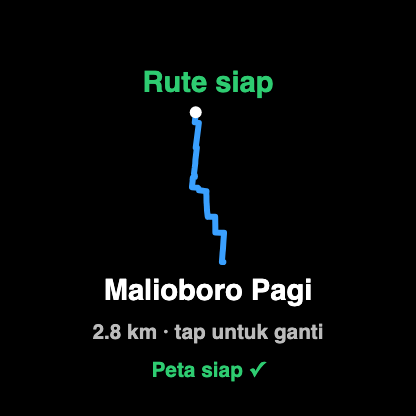
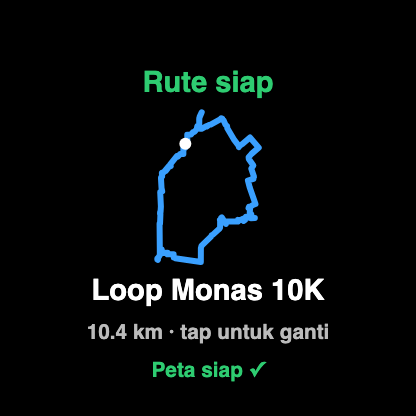
Store ready screen: Loop Monas 10K (real OSRM foot loop) with map ready status

Changed region(s): [[0.2188, 0.25, 0.7812, 0.75], [0.2188, 0.7812, 0.8125, 0.8438]]

diff --git a/docs/store/render.html b/docs/store/render.html
@@ -7,7 +7,9 @@
 // a route through Malioboro, Yogyakarta, downloaded from the Valhalla /expansion service
 // (roads = "auto", alleys = "pedestrian"), metres east/north of the route start.
 // Map data © OpenStreetMap contributors (ODbL).
+// The ready screen shows a real 10.5 km foot loop around Monas (OSRM), the other screens Malioboro.
 // Usage: render.html?s=ready|approach|turn|off
+const LOOP = [[0.0,0.0],[1.9,49.9],[13.0,49.8],[13.2,60.0],[37.1,59.5],[35.9,168.2],[105.6,173.1],[148.2,222.7],[171.0,222.2],[214.6,276.4],[225.1,330.2],[238.1,319.1],[260.8,321.1],[262.8,484.1],[307.7,590.6],[270.5,511.5],[260.5,464.4],[261.9,302.5],[273.2,282.3],[303.9,280.3],[396.4,330.9],[403.2,324.7],[446.5,355.0],[475.9,359.6],[663.1,463.7],[675.2,477.9],[696.4,468.0],[696.1,456.5],[720.6,439.0],[754.5,359.2],[785.6,329.5],[789.0,292.4],[922.4,66.8],[1000.9,-34.0],[1014.7,-42.0],[1007.8,-62.4],[1014.7,-42.0],[1073.0,-5.2],[1215.6,118.4],[1380.2,-73.3],[1244.2,-190.7],[1189.8,-252.4],[1193.6,-286.9],[1279.2,-410.4],[1239.0,-467.8],[1291.7,-620.4],[1281.4,-626.2],[1286.4,-634.1],[1275.6,-648.4],[1279.1,-659.5],[1176.7,-692.0],[1209.5,-819.3],[1319.1,-1134.1],[1271.2,-1152.9],[1227.5,-1181.7],[1197.3,-1184.6],[1188.5,-1209.4],[1217.9,-1208.2],[1209.5,-1319.6],[1238.9,-1321.3],[1250.0,-1398.9],[1307.3,-1395.6],[1228.8,-1400.1],[1137.3,-1374.7],[1122.2,-1408.3],[1121.5,-1435.7],[1095.3,-1452.5],[1072.0,-1415.4],[1034.0,-1437.2],[988.2,-1431.7],[984.7,-1464.4],[765.3,-1460.4],[762.6,-1508.1],[685.4,-1384.5],[672.7,-1394.1],[665.7,-1420.3],[648.2,-1430.1],[654.3,-1448.1],[653.8,-1576.3],[644.9,-1594.6],[513.6,-1714.5],[494.5,-1722.1],[482.0,-1746.1],[302.9,-1922.9],[292.1,-1966.0],[291.3,-2225.8],[-191.9,-2154.4],[-197.0,-2146.1],[-218.1,-2142.4],[-220.7,-2076.9],[-333.2,-2078.5],[-334.4,-2050.7],[-443.6,-2053.2],[-445.3,-1988.3],[-480.0,-1988.5],[-479.5,-2095.9],[-512.5,-2146.7],[-526.0,-2154.6],[-527.9,-2178.9],[-515.2,-2183.0],[-527.9,-2178.9],[-526.0,-2154.6],[-512.5,-2146.7],[-479.0,-2092.5],[-484.5,-1519.5],[-484.1,-1500.1],[-475.7,-1500.7],[-468.3,-1314.2],[-476.1,-1313.8],[-474.5,-1287.3],[-466.3,-1287.5],[-459.8,-1179.8],[-472.6,-904.7],[-434.6,-896.6],[-447.8,-834.2],[-458.2,-648.8],[-455.7,-630.3],[-435.7,-616.6],[-442.1,-550.6],[-433.1,-542.1],[-420.5,-554.2],[-311.0,-419.4],[-280.6,-425.9],[-306.0,-431.8],[-367.5,-509.4],[-306.0,-431.8],[-274.9,-420.8],[-288.2,-391.9],[-159.9,-233.5],[-143.5,-245.0],[-97.2,-193.4],[-37.0,-193.0],[-36.9,-80.6],[-14.5,-81.3],[-14.3,-72.1],[-1.1,-72.3],[-0.6,-30.4],[17.9,-30.6],[18.5,6.7],[0.2,6.9],[0.0,0.0]];   // real OSRM foot loop: Monas → Medan Merdeka → Cikini → Menteng → Bundaran HI → Thamrin → Monas
 const D = {"route":[[0.0,0.0],[0.0,0.0],[-1.7,-25.8],[-1.1,-27.4],[-3.2,-55.8],[-8.5,-104.1],[-13.3,-141.9],[-14.8,-153.2],[47.9,-160.5],[47.4,-164.0],[15.6,-414.6],[15.0,-419.2],[-0.3,-539.2],[9.5,-539.1],[17.8,-539.2],[5.2,-641.5],[-4.6,-720.6],[-6.9,-768.1],[-6.3,-771.7],[-15.4,-846.2],[-16.0,-850.2],[-24.3,-917.9],[-26.4,-934.3],[-11.5,-966.7],[-13.3,-968.0],[-13.5,-969.9],[-13.6,-973.4],[-13.7,-979.3],[-13.8,-985.6],[-15.7,-985.5],[-27.1,-985.6],[-28.7,-985.6],[-30.0,-985.7],[-31.4,-985.9],[-32.8,-986.2],[-34.2,-986.8],[-35.5,-987.3],[-36.7,-987.8],[-37.9,-988.4],[-39.2,-989.2],[-40.4,-989.9],[-41.5,-990.8],[-42.2,-991.7],[-43.0,-992.6],[-43.6,-993.5],[-43.8,-994.5],[-48.0,-1028.0],[-47.6,-1028.7],[-46.9,-1029.0],[-45.0,-1029.1],[-45.2,-1031.6],[-45.7,-1034.9],[-47.1,-1046.6],[-52.3,-1089.9],[-53.9,-1104.1],[-55.8,-1120.8],[-57.7,-1139.3],[-16.1,-1143.2],[23.9,-1146.7],[26.4,-1147.2],[28.7,-1147.8],[30.6,-1148.8],[32.2,-1149.8],[34.1,-1151.3],[35.7,-1152.6],[38.2,-1155.1],[40.3,-1157.8],[42.4,-1160.6],[44.0,-1163.2],[45.4,-1165.8],[46.9,-1168.4],[48.0,-1171.1],[49.0,-1173.5],[49.7,-1175.8],[50.6,-1178.8],[51.2,-1181.2],[51.4,-1183.3],[51.5,-1185.3],[51.4,-1187.2],[113.6,-1194.7],[128.9,-1196.5],[164.1,-1200.7],[163.7,-1207.6],[161.6,-1229.4],[161.4,-1244.0],[161.4,-1246.9],[163.5,-1272.8],[163.6,-1300.8],[164.0,-1346.0],[164.8,-1374.0],[167.4,-1398.9],[167.6,-1413.7],[169.4,-1430.5],[169.6,-1437.2],[170.7,-1466.2],[171.5,-1484.7],[172.9,-1504.0],[175.5,-1526.3],[181.3,-1575.5],[183.4,-1591.9],[235.1,-1589.2],[296.1,-1588.8],[297.0,-1645.1],[297.9,-1695.9],[298.7,-1755.2],[298.9,-1764.6],[298.7,-1769.9],[298.8,-1793.2],[298.9,-1831.1],[384.1,-1834.6],[418.4,-1835.1],[431.7,-1835.3],[431.1,-1842.4],[429.8,-1859.6],[427.4,-1890.8],[422.7,-1950.6],[418.3,-2023.8],[414.1,-2091.0],[409.2,-2134.9],[408.0,-2152.1],[406.1,-2178.0],[398.6,-2278.6],[421.0,-2280.1]],"roads":[{"c":1,"p":[[0.0,0.0],[-1.7,-25.8]]},{"c":1,"p":[[75.1,-9.2],[59.8,-132.1]]},{"c":1,"p":[[59.8,-132.1],[56.0,-161.4]]},{"c":1,"p":[[56.0,-161.4],[52.8,-187.4]]},{"c":1,"p":[[56.0,-161.4],[47.9,-160.5]]},{"c":1,"p":[[47.9,-160.5],[-14.8,-153.2]]},{"c":1,"p":[[-14.8,-153.2],[-22.8,-152.2]]},{"c":1,"p":[[52.8,-187.4],[30.7,-364.2]]},{"c":1,"p":[[-22.8,-152.2],[-132.2,-139.5]]},{"c":1,"p":[[-132.2,-139.5],[-174.5,-134.6]]},{"c":1,"p":[[-22.8,-152.2],[-18.9,-112.8],[-45.4,-110.1]]},{"c":1,"p":[[-132.2,-139.5],[-132.4,-119.6]]},{"c":1,"p":[[59.8,-132.1],[62.8,-132.2]]},{"c":1,"p":[[62.8,-132.2],[68.2,-132.5]]},{"c":1,"p":[[68.2,-132.5],[71.1,-132.8]]},{"c":1,"p":[[71.1,-132.8],[229.6,-140.9]]},{"c":1,"p":[[14.9,-419.2],[-66.5,-409.2]]},{"c":1,"p":[[-66.5,-409.2],[-110.2,-403.9]]},{"c":1,"p":[[-110.2,-403.9],[-132.1,-401.1]]},{"c":1,"p":[[-132.1,-401.1],[-151.0,-398.9]]},{"c":1,"p":[[-151.0,-398.9],[-186.1,-394.6]]},{"c":1,"p":[[-66.5,-409.2],[-66.1,-405.5]]},{"c":1,"p":[[-132.1,-401.1],[-129.0,-365.0]]},{"c":1,"p":[[-129.0,-365.0],[-113.5,-227.4]]},{"c":1,"p":[[-66.1,-405.5],[-61.0,-347.6]]},{"c":1,"p":[[-15.4,-846.2],[-30.0,-845.0]]},{"c":1,"p":[[-15.4,-846.2],[29.0,-849.8]]},{"c":1,"p":[[-30.0,-845.0],[-30.4,-849.4]]},{"c":1,"p":[[-30.4,-849.4],[-37.6,-906.8]]},{"c":1,"p":[[-37.6,-906.8],[-39.3,-920.0]]},{"c":1,"p":[[-39.3,-920.0],[-42.0,-942.1]]},{"c":1,"p":[[-42.0,-942.1],[-46.0,-974.4]]},{"c":1,"p":[[-46.0,-974.4],[-16.2,-973.3]]},{"c":1,"p":[[-16.2,-973.3],[-13.6,-973.4]]},{"c":1,"p":[[-46.0,-974.4],[-49.6,-1002.4]]},{"c":1,"p":[[-49.6,-1002.4],[-50.6,-1010.2]]},{"c":1,"p":[[-46.0,-974.4],[-78.9,-973.3]]},{"c":1,"p":[[-13.6,-973.4],[57.1,-976.0]]},{"c":1,"p":[[-50.6,-1010.2],[-53.3,-1030.7]]},{"c":1,"p":[[-53.3,-1030.7],[-55.1,-1045.7]]},{"c":1,"p":[[-55.1,-1045.7],[-56.2,-1053.9]]},{"c":1,"p":[[-56.2,-1053.9],[-60.7,-1089.2]]},{"c":1,"p":[[-78.9,-973.3],[-185.0,-969.5]]},{"c":1,"p":[[57.1,-976.0],[56.9,-978.6]]},{"c":1,"p":[[-185.0,-969.5],[-202.7,-968.9]]},{"c":1,"p":[[-60.7,-1089.2],[-67.1,-1138.6]]},{"c":1,"p":[[57.1,-976.0],[188.7,-980.5]]},{"c":1,"p":[[-202.7,-968.9],[-293.7,-965.6]]},{"c":1,"p":[[-67.1,-1138.6],[-57.7,-1139.3]]},{"c":1,"p":[[-67.1,-1138.6],[-67.9,-1145.1]]},{"c":1,"p":[[-57.7,-1139.3],[-16.1,-1143.2]]},{"c":1,"p":[[-67.9,-1145.1],[-119.9,-1140.3]]},{"c":1,"p":[[-185.0,-969.5],[-185.5,-975.7]]},{"c":1,"p":[[-185.5,-975.7],[-185.8,-978.8]]},{"c":1,"p":[[-53.3,-1030.7],[-45.3,-1031.6]]},{"c":1,"p":[[-50.6,-1010.2],[-55.8,-1009.6]]},{"c":1,"p":[[-55.8,-1009.6],[-60.1,-1009.0]]},{"c":1,"p":[[-60.1,-1009.0],[-62.6,-1008.7]]},{"c":1,"p":[[-45.3,-1031.6],[-9.5,-1036.0]]},{"c":1,"p":[[-30.4,-849.4],[-36.2,-848.6]]},{"c":1,"p":[[-39.3,-920.0],[-53.7,-918.5]]},{"c":1,"p":[[-53.7,-918.5],[-55.9,-918.3]]},{"c":1,"p":[[-185.8,-978.8],[-190.6,-1036.6]]},{"c":1,"p":[[-55.9,-918.3],[-83.6,-915.3]]},{"c":1,"p":[[-83.6,-915.3],[-81.9,-903.4]]},{"c":1,"p":[[-81.9,-903.4],[-164.2,-907.4]]},{"c":1,"p":[[-164.2,-907.4],[-159.7,-888.7]]},{"c":1,"p":[[-16.1,-1143.2],[32.2,-1149.8],[51.4,-1187.2]]},{"c":1,"p":[[51.4,-1187.2],[45.6,-1186.5]]},{"c":1,"p":[[113.6,-1194.7],[51.4,-1187.2]]},{"c":1,"p":[[128.9,-1196.5],[113.6,-1194.7]]},{"c":1,"p":[[51.4,-1187.2],[40.6,-1273.4]]},{"c":1,"p":[[164.0,-1200.7],[128.9,-1196.5]]},{"c":1,"p":[[164.0,-1200.7],[198.5,-1204.9]]},{"c":1,"p":[[40.6,-1273.4],[34.7,-1272.6]]},{"c":1,"p":[[40.6,-1273.4],[25.4,-1394.6]]},{"c":1,"p":[[25.4,-1394.6],[18.6,-1397.9]]},{"c":1,"p":[[198.5,-1204.9],[246.1,-1210.5]]},{"c":1,"p":[[164.0,-1200.7],[169.7,-1140.3]]},{"c":1,"p":[[161.6,-1229.4],[164.0,-1200.7]]},{"c":1,"p":[[161.4,-1244.0],[161.6,-1229.4]]},{"c":1,"p":[[161.4,-1246.9],[161.4,-1244.0]]},{"c":1,"p":[[18.6,-1397.9],[19.1,-1393.9]]},{"c":1,"p":[[246.1,-1210.5],[319.7,-1219.4]]},{"c":1,"p":[[319.7,-1219.4],[343.3,-1222.1]]},{"c":1,"p":[[161.4,-1246.9],[168.2,-1245.9]]},{"c":1,"p":[[343.3,-1222.1],[402.8,-1229.3]]},{"c":1,"p":[[19.1,-1393.9],[34.7,-1272.6]]},{"c":1,"p":[[164.0,-1346.0],[161.4,-1246.9]]},{"c":1,"p":[[168.2,-1245.9],[261.4,-1251.3]]},{"c":1,"p":[[289.7,-1254.7],[261.4,-1251.3]]},{"c":1,"p":[[167.4,-1398.9],[164.0,-1346.0]]},{"c":1,"p":[[261.4,-1251.3],[260.8,-1262.4]]},{"c":1,"p":[[164.0,-1346.0],[85.9,-1345.6]]},{"c":1,"p":[[198.5,-1204.9],[201.1,-1148.3]]},{"c":1,"p":[[289.7,-1254.7],[419.3,-1277.0]]},{"c":1,"p":[[293.0,-1346.6],[289.7,-1254.7]]},{"c":1,"p":[[319.7,-1219.4],[320.9,-1198.4]]},{"c":1,"p":[[320.9,-1198.4],[322.2,-1178.9]]},{"c":1,"p":[[18.6,-1397.9],[-27.9,-1393.8]]},{"c":1,"p":[[-27.9,-1393.8],[-33.2,-1453.2]]},{"c":1,"p":[[-27.9,-1393.8],[-192.0,-1378.9]]},{"c":1,"p":[[128.9,-1196.5],[116.2,-1183.1],[113.6,-1194.7]]},{"c":1,"p":[[246.1,-1210.5],[246.2,-1206.4]]},{"c":1,"p":[[246.2,-1206.4],[246.5,-1197.4]]},{"c":1,"p":[[246.5,-1197.4],[247.2,-1183.0]]},{"c":1,"p":[[247.2,-1183.0],[248.5,-1149.3]]},{"c":1,"p":[[247.2,-1183.0],[279.9,-1183.0],[282.3,-1155.8]]},{"c":1,"p":[[169.6,-1437.2],[169.4,-1430.5]]},{"c":1,"p":[[169.4,-1430.5],[167.4,-1398.9]]},{"c":1,"p":[[169.6,-1437.2],[175.5,-1526.3]]},{"c":1,"p":[[294.5,-1433.5],[169.6,-1437.2]]},{"c":1,"p":[[175.5,-1526.3],[181.3,-1575.5]]},{"c":1,"p":[[181.3,-1575.5],[183.3,-1591.9]]},{"c":1,"p":[[294.5,-1433.5],[293.5,-1373.8]]},{"c":1,"p":[[175.5,-1526.3],[98.2,-1530.3]]},{"c":1,"p":[[296.2,-1522.9],[175.5,-1526.3]]},{"c":1,"p":[[293.5,-1373.8],[293.0,-1346.6]]},{"c":1,"p":[[294.5,-1433.5],[355.0,-1432.4]]},{"c":1,"p":[[183.3,-1591.9],[187.4,-1645.2]]},{"c":1,"p":[[355.0,-1432.4],[379.6,-1432.3]]},{"c":1,"p":[[98.2,-1530.3],[66.0,-1532.0]]},{"c":1,"p":[[66.0,-1532.0],[58.3,-1534.1]]},{"c":1,"p":[[296.2,-1522.9],[294.5,-1433.5]]},{"c":1,"p":[[379.6,-1432.3],[413.8,-1431.6]]},{"c":1,"p":[[187.4,-1645.2],[189.7,-1693.7]]},{"c":1,"p":[[98.2,-1530.3],[97.4,-1565.6]]},{"c":1,"p":[[58.3,-1534.1],[13.7,-1554.0]]},{"c":1,"p":[[296.1,-1588.8],[296.2,-1522.9]]},{"c":1,"p":[[189.7,-1693.7],[176.8,-1746.8]]},{"c":1,"p":[[176.8,-1746.8],[173.4,-1765.1]]},{"c":1,"p":[[13.7,-1554.0],[10.3,-1583.0]]},{"c":1,"p":[[251.9,-1694.9],[189.7,-1693.7]]},{"c":1,"p":[[296.2,-1522.9],[408.4,-1518.2]]},{"c":1,"p":[[297.0,-1645.1],[296.1,-1588.8]]},{"c":1,"p":[[10.3,-1583.0],[7.7,-1621.1]]},{"c":1,"p":[[297.9,-1695.9],[251.9,-1694.9]]},{"c":1,"p":[[297.9,-1695.9],[297.0,-1645.1]]},{"c":1,"p":[[10.3,-1583.0],[-6.1,-1564.1]]},{"c":1,"p":[[413.8,-1431.6],[408.4,-1518.2]]},{"c":1,"p":[[173.4,-1765.1],[162.3,-1823.1]]},{"c":1,"p":[[413.8,-1431.6],[422.9,-1282.4]]},{"c":1,"p":[[7.7,-1621.1],[29.6,-1624.2]]},{"c":1,"p":[[7.7,-1621.1],[-1.4,-1702.5]]},{"c":1,"p":[[-6.1,-1564.1],[13.7,-1554.0]]},{"c":1,"p":[[-6.1,-1564.1],[-69.4,-1561.2]]},{"c":1,"p":[[398.9,-1645.9],[408.4,-1518.2]]},{"c":1,"p":[[293.0,-1346.6],[223.3,-1346.4]]},{"c":1,"p":[[223.3,-1346.4],[205.5,-1346.3]]},{"c":1,"p":[[223.3,-1346.4],[223.0,-1328.1]]},{"c":1,"p":[[298.9,-1764.6],[173.4,-1765.1]]},{"c":1,"p":[[298.7,-1755.2],[298.9,-1764.6]]},{"c":1,"p":[[298.7,-1755.2],[314.9,-1755.0]]},{"c":1,"p":[[314.9,-1755.0],[320.9,-1755.0]]},{"c":1,"p":[[298.9,-1764.6],[298.7,-1769.9]]},{"c":1,"p":[[320.9,-1755.0],[332.5,-1754.9]]},{"c":1,"p":[[298.7,-1755.2],[297.9,-1695.9]]},{"c":1,"p":[[298.7,-1769.9],[298.9,-1831.1]]},{"c":1,"p":[[298.7,-1769.9],[389.7,-1773.5]]},{"c":1,"p":[[384.1,-1834.6],[298.9,-1831.1]]},{"c":1,"p":[[384.1,-1834.6],[389.7,-1773.5]]},{"c":1,"p":[[298.9,-1831.1],[161.8,-1829.4]]},{"c":1,"p":[[431.7,-1835.3],[384.1,-1834.6]]},{"c":1,"p":[[389.7,-1773.5],[398.9,-1645.9]]},{"c":1,"p":[[384.1,-1834.6],[379.2,-1910.4]]},{"c":1,"p":[[161.8,-1829.4],[153.2,-1890.6]]},{"c":1,"p":[[162.3,-1823.1],[161.8,-1829.4]]},{"c":1,"p":[[431.7,-1835.3],[440.7,-1721.5]]},{"c":1,"p":[[379.2,-1910.4],[373.3,-1991.9]]},{"c":1,"p":[[429.8,-1859.5],[431.7,-1835.3]]},{"c":1,"p":[[427.4,-1890.8],[429.8,-1859.5]]},{"c":1,"p":[[429.8,-1859.5],[435.2,-1859.7]]},{"c":1,"p":[[153.2,-1890.6],[145.4,-1970.6]]},{"c":1,"p":[[422.7,-1950.6],[427.4,-1890.8]]},{"c":1,"p":[[440.7,-1721.5],[446.8,-1600.6]]},{"c":1,"p":[[373.3,-1991.9],[368.0,-2071.9]]},{"c":1,"p":[[373.3,-1991.9],[358.9,-1990.8]]},{"c":1,"p":[[440.7,-1721.5],[493.0,-1718.5]]},{"c":1,"p":[[358.9,-1990.8],[342.0,-1989.3]]},{"c":1,"p":[[153.2,-1890.6],[30.6,-1879.1]]},{"c":1,"p":[[418.3,-2023.8],[422.7,-1950.6]]},{"c":1,"p":[[153.2,-1890.6],[379.2,-1910.4]]},{"c":1,"p":[[422.7,-1950.6],[433.8,-1951.0]]},{"c":1,"p":[[433.8,-1951.0],[434.8,-1951.0]]},{"c":1,"p":[[435.2,-1859.7],[446.1,-1860.1]]},{"c":1,"p":[[446.1,-1860.1],[459.0,-1860.4]]},{"c":1,"p":[[459.0,-1860.4],[508.8,-1861.9]]},{"c":1,"p":[[508.8,-1861.9],[537.5,-1862.8]]},{"c":1,"p":[[446.1,-1860.1],[440.1,-1890.7],[427.4,-1890.8]]},{"c":1,"p":[[434.8,-1951.0],[451.5,-1940.9]]},{"c":1,"p":[[409.2,-2134.9],[414.1,-2091.0]]},{"c":1,"p":[[414.1,-2091.0],[418.3,-2023.8]]},{"c":1,"p":[[409.2,-2134.9],[398.6,-2278.6]]},{"c":1,"p":[[398.6,-2278.6],[394.1,-2340.7]]},{"c":1,"p":[[418.3,-2023.8],[457.9,-2025.4]]},{"c":1,"p":[[394.1,-2340.7],[390.5,-2368.0]]},{"c":1,"p":[[390.5,-2368.0],[393.5,-2440.9]]},{"c":1,"p":[[394.1,-2340.7],[462.8,-2347.4]]},{"c":1,"p":[[462.8,-2347.4],[484.0,-2312.7]]},{"c":1,"p":[[409.2,-2134.9],[443.8,-2138.2]]},{"c":1,"p":[[443.8,-2138.2],[475.6,-2139.8]]},{"c":1,"p":[[475.6,-2139.8],[513.4,-2144.5]]},{"c":1,"p":[[513.4,-2144.5],[516.8,-2145.0]]},{"c":1,"p":[[516.8,-2145.0],[537.0,-2148.2]]},{"c":1,"p":[[537.0,-2148.2],[566.6,-2152.8]]},{"c":1,"p":[[537.0,-2148.2],[542.1,-2117.7]]},{"c":1,"p":[[566.6,-2152.8],[597.1,-2160.9]]},{"c":1,"p":[[597.1,-2160.9],[668.5,-2170.6]]},{"c":1,"p":[[451.5,-1940.9],[517.4,-1939.6],[522.7,-1966.6],[573.4,-1974.6]]},{"c":1,"p":[[573.4,-1974.6],[617.3,-1981.2]]},{"c":1,"p":[[393.5,-2440.9],[393.9,-2451.2]]},{"c":1,"p":[[393.5,-2440.9],[447.2,-2445.4]]},{"c":1,"p":[[447.2,-2445.4],[458.7,-2452.0]]},{"c":1,"p":[[458.7,-2452.0],[501.7,-2459.6]]},{"c":1,"p":[[501.7,-2459.6],[549.8,-2468.1]]},{"c":1,"p":[[393.9,-2451.2],[385.8,-2452.4]]},{"c":1,"p":[[385.8,-2452.4],[373.1,-2457.0]]},{"c":1,"p":[[373.1,-2457.0],[356.4,-2463.2]]},{"c":1,"p":[[356.4,-2463.2],[356.5,-2480.4]]},{"c":1,"p":[[373.1,-2457.0],[385.2,-2446.4]]},{"c":1,"p":[[356.4,-2463.2],[342.0,-2460.7]]},{"c":1,"p":[[356.4,-2463.2],[355.4,-2453.2]]},{"c":1,"p":[[385.2,-2446.4],[385.0,-2442.3]]},{"c":1,"p":[[356.5,-2480.4],[373.1,-2457.0]]},{"c":1,"p":[[342.0,-2460.7],[261.3,-2450.9]]},{"c":1,"p":[[356.5,-2480.4],[342.0,-2460.7]]},{"c":1,"p":[[385.0,-2442.3],[391.0,-2441.3]]},{"c":1,"p":[[385.2,-2446.4],[391.0,-2441.3]]},{"c":1,"p":[[391.0,-2441.3],[393.5,-2440.9]]},{"c":1,"p":[[385.0,-2442.3],[390.5,-2368.0]]},{"c":1,"p":[[501.7,-2459.6],[503.4,-2449.2]]},{"c":1,"p":[[553.6,-2460.8],[568.2,-2371.6]]},{"c":1,"p":[[484.0,-2312.7],[486.4,-2290.9]]},{"c":1,"p":[[486.4,-2290.9],[516.9,-2291.9]]},{"c":1,"p":[[484.0,-2312.7],[547.9,-2319.5],[553.4,-2281.1]]},{"c":1,"p":[[486.4,-2290.9],[492.3,-2233.2],[558.6,-2241.8]]},{"c":1,"p":[[553.4,-2281.1],[558.6,-2241.8]]},{"c":1,"p":[[553.4,-2281.1],[587.0,-2284.8]]},{"c":1,"p":[[558.6,-2241.8],[562.5,-2197.2]]},{"c":1,"p":[[587.0,-2284.8],[568.2,-2371.6]]},{"c":1,"p":[[503.4,-2449.2],[509.2,-2411.4]]},{"c":0,"p":[[-1.7,-25.8],[-3.2,-55.8]]},{"c":0,"p":[[-3.2,-55.8],[-38.1,-55.3]]},{"c":0,"p":[[-1.7,-25.8],[-65.6,-16.8],[-76.9,3.8]]},{"c":0,"p":[[-79.5,12.5],[-83.0,30.1]]},{"c":0,"p":[[-83.0,30.1],[-86.7,42.0]]},{"c":0,"p":[[-13.3,-141.9],[-3.2,-55.8]]},{"c":0,"p":[[-79.5,12.5],[-48.4,30.1]]},{"c":0,"p":[[-86.7,42.0],[-90.0,97.6]]},{"c":0,"p":[[-90.0,97.6],[-70.8,96.9]]},{"c":0,"p":[[-90.0,97.6],[-127.3,100.1]]},{"c":0,"p":[[-70.8,96.9],[-30.6,94.4]]},{"c":0,"p":[[-127.3,100.1],[-149.2,101.1]]},{"c":0,"p":[[-70.8,96.9],[-74.3,157.9]]},{"c":0,"p":[[-149.2,101.1],[-172.7,102.1]]},{"c":0,"p":[[-30.6,94.4],[-6.4,92.9]]},{"c":0,"p":[[-30.6,94.4],[-30.2,117.3]]},{"c":0,"p":[[64.5,-188.5],[105.0,-191.8]]},{"c":0,"p":[[61.2,-188.1],[68.2,-132.5]]},{"c":0,"p":[[-6.4,92.9],[46.7,89.8]]},{"c":0,"p":[[-74.3,157.9],[-72.2,221.6]]},{"c":0,"p":[[-74.3,157.9],[-5.0,159.1]]},{"c":0,"p":[[105.0,-191.8],[105.0,-217.0]]},{"c":0,"p":[[46.7,89.8],[79.4,88.0]]},{"c":0,"p":[[-174.5,-134.6],[-181.3,-216.7]]},{"c":0,"p":[[48.3,-156.6],[71.5,25.5]]},{"c":0,"p":[[-186.2,-133.3],[-317.1,-118.1]]},{"c":0,"p":[[39.9,-360.1],[61.2,-188.1]]},{"c":0,"p":[[105.0,-191.8],[235.0,-196.1]]},{"c":0,"p":[[15.6,-414.6],[47.4,-164.0]]},{"c":0,"p":[[-186.2,-133.3],[-196.0,-67.3]]},{"c":0,"p":[[68.2,-132.5],[82.5,-15.9]]},{"c":0,"p":[[-79.5,12.5],[-106.5,8.0]]},{"c":0,"p":[[-106.5,8.0],[-138.1,1.0]]},{"c":0,"p":[[-138.1,1.0],[-150.4,-2.2]]},{"c":0,"p":[[-150.4,-2.2],[-173.4,-5.3]]},{"c":0,"p":[[-106.5,8.0],[-96.6,-75.4],[-126.5,-90.0]]},{"c":0,"p":[[-138.1,1.0],[-126.5,-90.0]]},{"c":0,"p":[[-126.5,-90.0],[-132.4,-119.6]]},{"c":0,"p":[[-127.3,100.1],[-114.2,199.0]]},{"c":0,"p":[[-6.4,92.9],[-5.0,159.1]]},{"c":0,"p":[[-149.2,101.1],[-151.1,40.2]]},{"c":0,"p":[[-172.7,102.1],[-174.5,40.1]]},{"c":0,"p":[[-23.5,-155.4],[-26.1,-174.3]]},{"c":0,"p":[[-113.5,-227.4],[-46.7,-236.8],[-26.1,-174.3]]},{"c":0,"p":[[23.7,-420.3],[30.7,-364.2]]},{"c":0,"p":[[33.0,-416.6],[36.4,-379.5]]},{"c":0,"p":[[33.0,-416.6],[38.8,-369.0]]},{"c":0,"p":[[39.4,-365.1],[68.3,-368.0]]},{"c":0,"p":[[-0.3,-539.2],[14.9,-419.2]]},{"c":0,"p":[[9.5,-539.1],[23.7,-420.3]]},{"c":0,"p":[[17.8,-539.2],[32.4,-420.9]]},{"c":0,"p":[[-0.3,-539.2],[-31.0,-532.6]]},{"c":0,"p":[[32.4,-420.9],[185.5,-433.8]]},{"c":0,"p":[[-31.0,-532.6],[-84.4,-520.9]]},{"c":0,"p":[[185.5,-433.8],[189.7,-403.7]]},{"c":0,"p":[[-3.6,-640.2],[9.5,-539.1]]},{"c":0,"p":[[-110.2,-403.9],[-129.6,-509.5]]},{"c":0,"p":[[185.5,-433.8],[257.2,-439.7]]},{"c":0,"p":[[-84.4,-520.9],[-129.6,-509.5]]},{"c":0,"p":[[-19.7,-692.0],[-0.3,-539.2]]},{"c":0,"p":[[-129.0,-365.0],[-189.8,-356.2]]},{"c":0,"p":[[5.1,-641.5],[17.8,-539.2]]},{"c":0,"p":[[-84.4,-520.9],[-103.2,-576.1]]},{"c":0,"p":[[-31.8,-535.7],[-46.3,-594.0]]},{"c":0,"p":[[17.8,-539.2],[170.6,-544.5]]},{"c":0,"p":[[-151.0,-398.9],[-173.6,-501.5]]},{"c":0,"p":[[185.5,-433.8],[170.6,-544.5]]},{"c":0,"p":[[-132.8,-508.9],[-173.6,-501.5]]},{"c":0,"p":[[-14.0,-719.9],[-10.6,-693.1]]},{"c":0,"p":[[-103.2,-576.1],[-139.1,-564.9]]},{"c":0,"p":[[-19.7,-692.0],[-61.2,-686.7]]},{"c":0,"p":[[-10.6,-693.1],[-3.6,-640.2]]},{"c":0,"p":[[-132.8,-508.9],[-139.1,-564.9]]},{"c":0,"p":[[15.2,-642.9],[71.8,-651.3]]},{"c":0,"p":[[-103.2,-576.1],[-46.3,-594.0]]},{"c":0,"p":[[-173.6,-501.5],[-208.1,-492.2]]},{"c":0,"p":[[-31.4,-761.0],[-19.7,-692.0]]},{"c":0,"p":[[-4.6,-720.6],[5.1,-641.5]]},{"c":0,"p":[[-46.3,-594.0],[-66.5,-663.2]]},{"c":0,"p":[[170.6,-544.5],[224.8,-544.6]]},{"c":0,"p":[[-20.0,-765.6],[-14.0,-719.9]]},{"c":0,"p":[[-173.6,-501.5],[-189.5,-584.3]]},{"c":0,"p":[[-6.3,-771.7],[-4.6,-720.6]]},{"c":0,"p":[[65.8,-725.8],[71.8,-651.3]]},{"c":0,"p":[[-4.6,-720.6],[65.8,-725.8]]},{"c":0,"p":[[-189.8,-356.2],[-181.3,-216.7]]},{"c":0,"p":[[71.8,-651.3],[153.0,-664.2]]},{"c":0,"p":[[-113.5,-227.4],[-181.3,-216.7]]},{"c":0,"p":[[68.3,-368.0],[111.8,-372.3]]},{"c":0,"p":[[111.8,-372.3],[167.4,-377.9]]},{"c":0,"p":[[111.8,-372.3],[117.0,-310.6]]},{"c":0,"p":[[167.4,-377.9],[190.8,-395.4]]},{"c":0,"p":[[190.8,-395.4],[206.0,-396.2]]},{"c":0,"p":[[206.0,-396.2],[244.5,-398.1]]},{"c":0,"p":[[167.4,-377.9],[182.6,-365.4]]},{"c":0,"p":[[206.0,-396.2],[207.3,-382.1]]},{"c":0,"p":[[117.0,-310.6],[148.5,-313.5]]},{"c":0,"p":[[207.3,-382.1],[203.2,-368.5]]},{"c":0,"p":[[182.6,-365.4],[203.2,-368.5]]},{"c":0,"p":[[170.6,-544.5],[153.0,-664.2]]},{"c":0,"p":[[182.6,-365.4],[183.1,-341.3]]},{"c":0,"p":[[117.0,-310.6],[124.3,-222.2],[141.6,-199.9],[309.3,-204.6]]},{"c":0,"p":[[207.3,-382.1],[245.3,-385.3]]},{"c":0,"p":[[203.2,-368.5],[204.8,-342.8]]},{"c":0,"p":[[183.1,-341.3],[204.8,-342.8]]},{"c":0,"p":[[148.5,-313.5],[172.1,-316.1],[183.1,-341.3]]},{"c":0,"p":[[204.8,-342.8],[209.8,-318.0]]},{"c":0,"p":[[148.5,-313.5],[151.2,-241.2]]},{"c":0,"p":[[209.8,-318.0],[257.3,-320.1]]},{"c":0,"p":[[209.8,-318.0],[213.0,-268.1]]},{"c":0,"p":[[-26.8,-912.6],[-21.3,-856.5]]},{"c":0,"p":[[-24.3,-917.9],[-16.0,-850.2]]},{"c":0,"p":[[36.1,-850.3],[50.2,-851.0]]},{"c":0,"p":[[-30.0,-845.0],[-22.7,-786.4]]},{"c":0,"p":[[-26.4,-934.3],[-24.3,-917.9]]},{"c":0,"p":[[-15.4,-846.2],[-6.3,-771.7]]},{"c":0,"p":[[-27.5,-941.8],[-28.0,-922.7]]},{"c":0,"p":[[-24.4,-954.2],[-27.5,-941.8]]},{"c":0,"p":[[-22.7,-786.4],[-20.0,-765.6]]},{"c":0,"p":[[-22.7,-786.4],[-36.4,-779.1]]},{"c":0,"p":[[-13.5,-969.9],[-24.4,-954.2]]},{"c":0,"p":[[-20.0,-765.6],[-32.0,-764.8]]},{"c":0,"p":[[-11.5,-966.7],[-26.4,-934.3]]},{"c":0,"p":[[-7.8,-966.8],[-24.4,-954.2]]},{"c":0,"p":[[-54.0,-939.0],[-50.2,-926.8]]},{"c":0,"p":[[-36.4,-779.1],[-67.6,-762.6]]},{"c":0,"p":[[-32.0,-764.8],[-67.6,-762.6]]},{"c":0,"p":[[66.7,-851.8],[84.2,-852.7]]},{"c":0,"p":[[-78.6,-966.9],[-58.1,-948.7]]},{"c":0,"p":[[-84.0,-965.6],[-58.1,-948.7]]},{"c":0,"p":[[-32.9,-792.9],[-38.5,-836.7]]},{"c":0,"p":[[-38.7,-783.5],[-83.8,-763.4]]},{"c":0,"p":[[84.2,-852.7],[84.6,-839.6]]},{"c":0,"p":[[-38.9,-995.3],[-19.1,-989.7]]},{"c":0,"p":[[-46.0,-974.4],[-16.5,-979.2]]},{"c":0,"p":[[-36.3,-784.8],[-43.8,-842.6]]},{"c":0,"p":[[66.7,-851.8],[64.9,-887.3]]},{"c":0,"p":[[-78.2,-759.3],[-121.7,-742.5]]},{"c":0,"p":[[-44.1,-1025.7],[-39.9,-1000.5]]},{"c":0,"p":[[-82.8,-965.7],[-53.9,-919.9]]},{"c":0,"p":[[-53.4,-916.3],[-45.0,-852.7]]},{"c":0,"p":[[-13.7,-979.3],[56.5,-981.9]]},{"c":0,"p":[[-14.9,-989.9],[43.9,-994.5]]},{"c":0,"p":[[66.7,-851.8],[70.1,-798.9],[86.7,-791.4]]},{"c":0,"p":[[-59.3,-1003.4],[-73.5,-982.3]]},{"c":0,"p":[[84.2,-852.7],[157.6,-856.6]]},{"c":0,"p":[[-45.0,-1029.1],[-40.9,-995.5]]},{"c":0,"p":[[54.2,-1002.3],[70.4,-998.0]]},{"c":0,"p":[[157.6,-856.6],[158.9,-833.0]]},{"c":0,"p":[[157.6,-856.6],[190.0,-858.2]]},{"c":0,"p":[[57.2,-1006.9],[86.5,-1009.0]]},{"c":0,"p":[[-65.5,-1052.6],[-60.1,-1009.0]]},{"c":0,"p":[[84.2,-852.7],[81.7,-912.5],[63.7,-909.3],[64.5,-893.7]]},{"c":0,"p":[[-52.3,-1089.9],[-47.1,-1046.6]]},{"c":0,"p":[[-121.7,-742.5],[-193.7,-734.6]]},{"c":0,"p":[[86.5,-1009.0],[87.0,-995.0]]},{"c":0,"p":[[158.9,-833.0],[181.9,-833.9]]},{"c":0,"p":[[-53.9,-1104.1],[-52.3,-1089.9]]},{"c":0,"p":[[-69.9,-1088.2],[-65.5,-1052.6]]},{"c":0,"p":[[-81.0,-981.0],[-185.5,-975.7]]},{"c":0,"p":[[-71.8,-1102.6],[-69.9,-1088.2]]},{"c":0,"p":[[157.6,-856.6],[156.6,-906.8],[185.0,-907.9]]},{"c":0,"p":[[-185.5,-975.7],[-203.5,-974.9]]},{"c":0,"p":[[65.8,-725.8],[136.1,-731.0]]},{"c":0,"p":[[158.9,-833.0],[160.6,-797.1],[180.1,-797.8]]},{"c":0,"p":[[-7.8,-966.8],[181.9,-973.6]]},{"c":0,"p":[[-57.7,-1139.3],[-53.9,-1104.1]]},{"c":0,"p":[[-40.9,-995.5],[50.2,-999.4]]},{"c":0,"p":[[56.5,-981.9],[169.3,-986.2]]},{"c":0,"p":[[-76.3,-1137.7],[-71.8,-1102.6]]},{"c":0,"p":[[86.5,-1009.0],[156.7,-1014.2]]},{"c":0,"p":[[60.6,-1010.8],[152.9,-1018.3]]},{"c":0,"p":[[135.4,-736.1],[134.9,-750.9]]},{"c":0,"p":[[-193.7,-734.6],[-261.1,-735.6]]},{"c":0,"p":[[169.3,-986.2],[168.4,-999.8]]},{"c":0,"p":[[134.9,-750.9],[132.5,-770.0]]},{"c":0,"p":[[167.4,-1015.0],[168.4,-999.8]]},{"c":0,"p":[[134.9,-750.9],[106.7,-747.7]]},{"c":0,"p":[[-76.3,-1137.7],[-119.4,-1133.8]]},{"c":0,"p":[[136.1,-731.0],[188.6,-734.9]]},{"c":0,"p":[[-84.0,-965.6],[-298.6,-958.5]]},{"c":0,"p":[[106.7,-747.7],[93.6,-761.8]]},{"c":0,"p":[[176.9,-1015.8],[196.3,-1017.3]]},{"c":0,"p":[[169.3,-986.2],[232.1,-988.7]]},{"c":0,"p":[[132.5,-770.0],[93.6,-761.8]]},{"c":0,"p":[[134.9,-750.9],[186.1,-755.5]]},{"c":0,"p":[[-203.9,-978.4],[-212.6,-1079.1]]},{"c":0,"p":[[188.6,-734.9],[186.1,-755.5]]},{"c":0,"p":[[-193.7,-734.6],[-176.9,-620.6]]},{"c":0,"p":[[93.6,-761.8],[52.9,-753.1]]},{"c":0,"p":[[106.7,-747.7],[52.9,-753.1]]},{"c":0,"p":[[132.5,-770.0],[170.1,-771.1],[186.1,-755.5]]},{"c":0,"p":[[199.1,-916.0],[199.1,-938.6],[179.4,-936.6]]},{"c":0,"p":[[188.6,-734.9],[356.9,-747.3]]},{"c":0,"p":[[-117.2,-760.1],[-120.2,-748.2]]},{"c":0,"p":[[-103.1,-764.8],[-105.1,-791.5]]},{"c":0,"p":[[-117.2,-760.1],[-147.1,-756.9]]},{"c":0,"p":[[-147.1,-756.9],[-148.7,-774.4]]},{"c":0,"p":[[-105.1,-791.5],[-136.9,-789.5]]},{"c":0,"p":[[55.3,-993.1],[87.0,-995.0]]},{"c":0,"p":[[-148.7,-774.4],[-136.9,-789.5]]},{"c":0,"p":[[-136.9,-789.5],[-139.0,-813.4]]},{"c":0,"p":[[-139.0,-813.4],[-118.1,-818.2]]},{"c":0,"p":[[-117.5,-825.2],[-102.1,-823.0]]},{"c":0,"p":[[-147.1,-756.9],[-233.6,-762.3]]},{"c":0,"p":[[-139.0,-813.4],[-173.5,-811.1],[-179.1,-831.2]]},{"c":0,"p":[[-117.5,-825.2],[-118.2,-856.6]]},{"c":0,"p":[[87.0,-995.0],[168.4,-999.8]]},{"c":0,"p":[[-179.1,-831.2],[-180.4,-848.4]]},{"c":0,"p":[[-118.2,-856.6],[-134.2,-872.5]]},{"c":0,"p":[[-102.1,-823.0],[-61.8,-830.8],[-53.7,-846.3]]},{"c":0,"p":[[-118.2,-856.6],[-79.1,-871.5]]},{"c":0,"p":[[-141.2,-872.9],[-156.5,-868.3]]},{"c":0,"p":[[-141.2,-872.9],[-159.7,-888.7]]},{"c":0,"p":[[168.4,-999.8],[230.2,-1003.5],[232.1,-988.7]]},{"c":0,"p":[[136.2,-729.1],[137.6,-710.6]]},{"c":0,"p":[[167.1,-1019.4],[163.9,-1065.8]]},{"c":0,"p":[[137.6,-710.6],[142.9,-663.0]]},{"c":0,"p":[[55.9,-1019.3],[47.5,-1032.6]]},{"c":0,"p":[[55.9,-1019.3],[98.3,-1021.6]]},{"c":0,"p":[[175.5,-962.3],[141.8,-961.1]]},{"c":0,"p":[[45.6,-1052.8],[16.1,-1049.0],[18.9,-1029.2]]},{"c":0,"p":[[108.0,-1022.2],[156.0,-1024.8]]},{"c":0,"p":[[45.6,-1052.8],[126.0,-1059.3]]},{"c":0,"p":[[156.0,-1024.8],[159.3,-1056.1],[141.9,-1060.6]]},{"c":0,"p":[[191.9,-955.0],[142.5,-936.6],[141.8,-961.1]]},{"c":0,"p":[[-130.8,-1132.8],[-149.8,-1131.0]]},{"c":0,"p":[[-149.8,-1131.0],[-182.6,-1132.4]]},{"c":0,"p":[[-130.8,-1132.8],[-129.4,-1103.3]]},{"c":0,"p":[[-129.4,-1103.3],[-148.3,-1101.5]]},{"c":0,"p":[[-149.8,-1131.0],[-148.3,-1101.5]]},{"c":0,"p":[[34.7,-1272.6],[45.6,-1186.5]]},{"c":0,"p":[[-148.3,-1101.5],[-174.5,-1099.1]]},{"c":0,"p":[[-129.4,-1103.3],[-80.1,-1107.8]]},{"c":0,"p":[[-182.6,-1132.4],[-199.3,-1198.0]]},{"c":0,"p":[[45.6,-1186.5],[28.0,-1155.1],[-16.7,-1149.8]]},{"c":0,"p":[[-199.3,-1198.0],[-207.3,-1265.8]]},{"c":0,"p":[[-192.8,-1198.6],[-200.8,-1266.3]]},{"c":0,"p":[[-16.7,-1149.8],[-67.9,-1145.1]]},{"c":0,"p":[[-207.3,-1265.8],[-232.5,-1263.7]]},{"c":0,"p":[[164.0,-1346.0],[205.5,-1346.3]]},{"c":0,"p":[[-207.3,-1265.8],[-211.7,-1302.3]]},{"c":0,"p":[[-192.8,-1198.6],[-181.0,-1139.7],[-119.9,-1140.3]]},{"c":0,"p":[[343.3,-1222.1],[350.2,-1160.4]]},{"c":0,"p":[[-182.6,-1132.4],[-188.6,-1100.1]]},{"c":0,"p":[[167.4,-1398.9],[126.3,-1397.6]]},{"c":0,"p":[[169.4,-1430.5],[126.8,-1429.1],[126.3,-1397.6]]},{"c":0,"p":[[126.3,-1397.6],[76.5,-1394.2]]},{"c":0,"p":[[76.5,-1394.2],[85.9,-1345.6]]},{"c":0,"p":[[181.3,-1575.5],[138.2,-1576.3]]},{"c":0,"p":[[76.5,-1394.2],[63.4,-1455.4]]},{"c":0,"p":[[63.4,-1455.4],[64.7,-1479.2]]},{"c":0,"p":[[66.0,-1532.0],[64.7,-1479.2]]},{"c":0,"p":[[296.1,-1588.8],[183.3,-1591.9]]},{"c":0,"p":[[379.6,-1432.3],[383.8,-1377.4]]},{"c":0,"p":[[187.4,-1645.2],[107.2,-1645.4]]},{"c":0,"p":[[63.4,-1455.4],[-33.2,-1453.2]]},{"c":0,"p":[[58.3,-1534.1],[47.2,-1633.0]]},{"c":0,"p":[[293.5,-1373.8],[354.8,-1373.1],[355.0,-1432.4]]},{"c":0,"p":[[251.9,-1694.9],[253.0,-1666.9]]},{"c":0,"p":[[50.8,-1631.0],[97.7,-1631.6]]},{"c":0,"p":[[176.8,-1746.8],[105.5,-1745.8]]},{"c":0,"p":[[38.8,-1724.2],[47.2,-1633.0]]},{"c":0,"p":[[173.4,-1765.1],[90.7,-1765.0]]},{"c":0,"p":[[297.0,-1645.1],[398.9,-1645.9]]},{"c":0,"p":[[332.5,-1754.9],[332.5,-1725.8]]},{"c":0,"p":[[332.5,-1725.8],[332.6,-1709.1]]},{"c":0,"p":[[332.5,-1754.9],[355.0,-1753.3],[356.5,-1726.0]]},{"c":0,"p":[[356.5,-1726.0],[358.7,-1712.9],[365.4,-1725.9]]},{"c":0,"p":[[162.3,-1823.1],[73.9,-1821.6]]},{"c":0,"p":[[90.7,-1765.0],[78.1,-1747.1],[35.8,-1740.5],[38.8,-1724.2]]},{"c":0,"p":[[145.4,-1970.6],[342.0,-1989.3]]},{"c":0,"p":[[459.0,-1860.4],[488.0,-1844.7],[508.8,-1861.9]]},{"c":0,"p":[[414.1,-2091.0],[452.9,-2093.2]]},{"c":0,"p":[[452.9,-2093.2],[489.4,-2096.3]]},{"c":0,"p":[[452.9,-2093.2],[443.8,-2138.2]]},{"c":0,"p":[[452.9,-2093.2],[463.0,-2048.6]]},{"c":0,"p":[[463.0,-2048.6],[514.7,-2052.9]]},{"c":0,"p":[[514.7,-2052.9],[524.4,-2032.2]]},{"c":0,"p":[[514.7,-2052.9],[560.0,-2058.7]]},{"c":0,"p":[[524.4,-2032.2],[560.6,-2037.7]]},{"c":0,"p":[[560.0,-2058.7],[560.6,-2037.7]]},{"c":0,"p":[[560.0,-2058.7],[552.3,-2092.0]]},{"c":0,"p":[[466.3,-2283.1],[398.6,-2278.6]]},{"c":0,"p":[[574.5,-2093.8],[552.3,-2092.0]]},{"c":0,"p":[[560.6,-2037.7],[573.4,-1974.6]]},{"c":0,"p":[[560.6,-2037.7],[644.8,-2048.0]]},{"c":0,"p":[[466.3,-2283.1],[462.8,-2347.4]]},{"c":0,"p":[[566.6,-2152.8],[574.5,-2093.8]]},{"c":0,"p":[[574.5,-2093.8],[674.9,-2110.4]]},{"c":0,"p":[[617.3,-1981.2],[652.6,-1985.9]]},{"c":0,"p":[[562.5,-2197.2],[566.6,-2152.8]]},{"c":0,"p":[[466.3,-2283.1],[473.3,-2187.0]]},{"c":0,"p":[[617.3,-1981.2],[640.6,-1887.7]]},{"c":0,"p":[[512.6,-2191.8],[562.5,-2197.2]]},{"c":0,"p":[[473.3,-2187.0],[475.6,-2139.8]]},{"c":0,"p":[[512.6,-2191.8],[516.8,-2145.0]]},{"c":0,"p":[[513.4,-2144.5],[519.7,-2090.2]]},{"c":0,"p":[[597.1,-2160.9],[597.8,-2219.0]]},{"c":0,"p":[[473.3,-2187.0],[512.6,-2191.8]]},{"c":0,"p":[[385.0,-2442.3],[355.4,-2453.2]]},{"c":0,"p":[[393.9,-2451.2],[445.2,-2454.7]]},{"c":0,"p":[[445.2,-2454.7],[458.7,-2452.0]]},{"c":0,"p":[[587.0,-2284.8],[596.0,-2264.3]]},{"c":0,"p":[[355.4,-2453.2],[261.1,-2443.6]]},{"c":0,"p":[[596.0,-2264.3],[629.4,-2264.7],[632.6,-2226.5]]},{"c":0,"p":[[458.7,-2452.0],[468.1,-2355.5]]},{"c":0,"p":[[587.0,-2284.8],[719.1,-2291.9]]},{"c":0,"p":[[596.0,-2264.3],[600.2,-2236.2]]},{"c":0,"p":[[600.2,-2236.2],[597.8,-2219.0]]},{"c":0,"p":[[600.2,-2236.2],[632.6,-2226.5]]}],"scenes":{"approach":9,"turn":8,"off":{"along":720,"me":[52.9,-753.1],"rejoin":[-6.0,-750.2],"trail":[[-4.6,-720.6],[65.8,-725.8],[136.1,-731.0],[188.6,-734.9],[186.1,-755.5],[134.9,-750.9],[106.7,-747.7],[52.9,-753.1]],"head":-1.670833032269071}}};
 const S = 416, K = S / 200;
 const BLUE = '#3aa0ff', DONE = '#5b5b5b', YEL = '#f5c542', RED = '#ff6b5e', GREEN = '#2ecc71';
@@ -115,16 +117,17 @@ if (s === 'approach') {
   foot(km(o.along));
 } else if (s === 'ready') {
   halo('Rute siap', 14*K, S/2, 40*K, GREEN);
-  // whole route north-up, fitted in a box like drawMiniRoute
+  // whole route north-up, fitted in a box like drawMiniRoute (the start point is a white dot)
   let mnx = 1e9, mxx = -1e9, mny = 1e9, mxy = -1e9;
-  for (const p of R) { mnx = Math.min(mnx, p[0]); mxx = Math.max(mxx, p[0]); mny = Math.min(mny, p[1]); mxy = Math.max(mxy, p[1]); }
+  for (const p of LOOP) { mnx = Math.min(mnx, p[0]); mxx = Math.max(mxx, p[0]); mny = Math.min(mny, p[1]); mxy = Math.max(mxy, p[1]); }
   const size = S * 0.36, k = size / Math.max(mxx - mnx, mxy - mny), cx = S/2, cy = S * 0.45;
   const P = p => [cx + (p[0] - (mnx+mxx)/2) * k, cy - (p[1] - (mny+mxy)/2) * k];
-  x.beginPath(); R.forEach((p, i) => { const q = P(p); i ? x.lineTo(q[0], q[1]) : x.moveTo(q[0], q[1]); });
+  x.beginPath(); LOOP.forEach((p, i) => { const q = P(p); i ? x.lineTo(q[0], q[1]) : x.moveTo(q[0], q[1]); });
   x.strokeStyle = BLUE; x.lineWidth = 6; x.stroke();
-  const a = P(R[0]); x.beginPath(); x.arc(a[0], a[1], 6, 0, 7); x.fillStyle = '#fff'; x.fill();
-  halo('Malioboro Pagi', 14*K, S/2, S * 0.70, '#fff');
-  halo((TOTAL/1000).toFixed(1) + ' km · tap untuk ganti', 10*K, S/2, S * 0.80, '#bbb');
+  const a = P(LOOP[0]); x.beginPath(); x.arc(a[0], a[1], 6, 0, 7); x.fillStyle = '#fff'; x.fill();
+  let len = 0; for (let i = 1; i < LOOP.length; i++) len += Math.hypot(LOOP[i][0]-LOOP[i-1][0], LOOP[i][1]-LOOP[i-1][1]);
+  halo('Loop Monas 10K', 14*K, S/2, S * 0.70, '#fff');
+  halo((len/1000).toFixed(1) + ' km · tap untuk ganti', 10*K, S/2, S * 0.80, '#bbb');
   halo('Peta siap ✓', 10*K, S/2, S * 0.89, GREEN);
 }
 x.restore();
